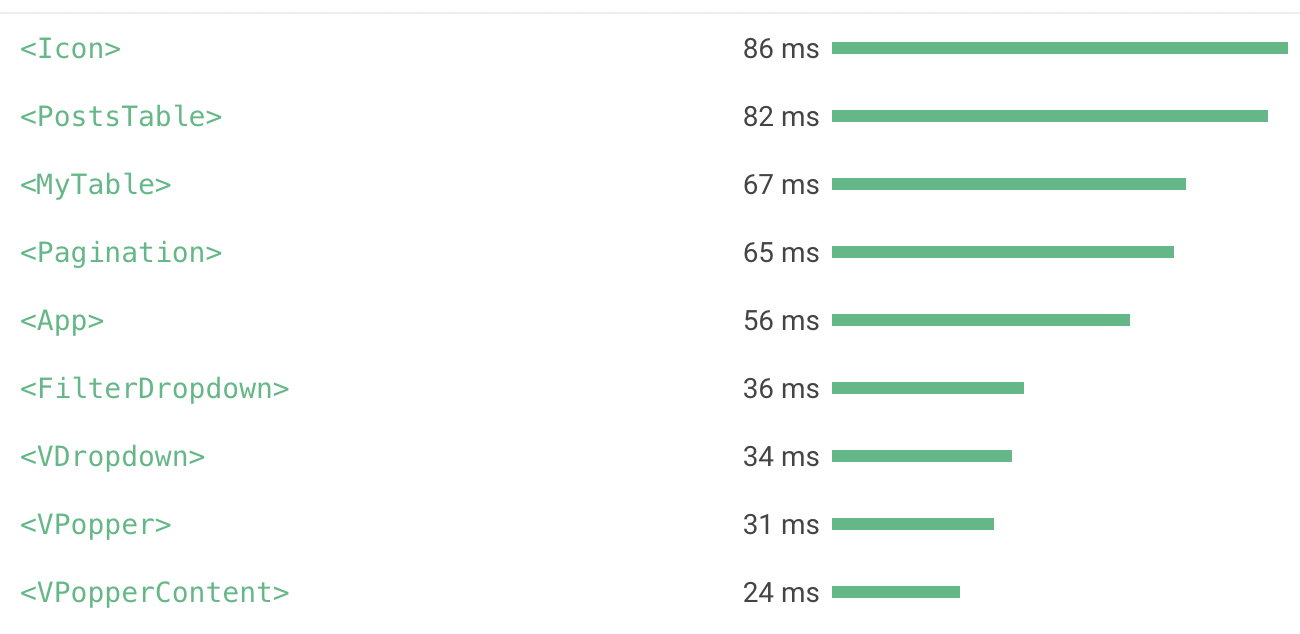
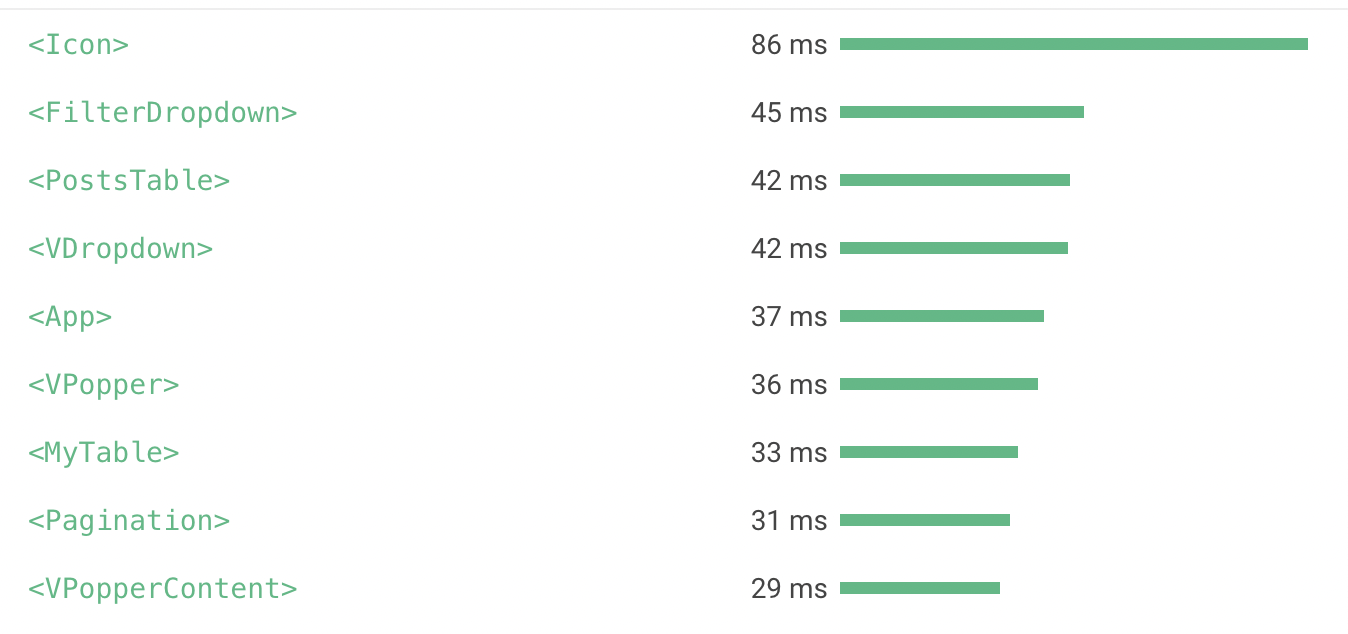
functional components

diff --git a/src/components-func/MyTable/index.vue b/src/components-func/MyTable/index.vue
@@ -1,0 +1,72 @@
+<script lang="jsx">
+import defaultTypes from '../../constants/defaultTypes';
+import HeaderItem from '../HeaderItem';
+import RowColumn from '../RowColumn';
+import Row from '../Row';
+import style from './myTable.module.css';
+
+export default {
+  name: 'MyTable',
+  functional: true,
+  props: {
+    items: defaultTypes.array(),
+    columns: defaultTypes.array(),
+    loading: defaultTypes.boolean(),
+  },
+  render(h, { props, scopedSlots }) {
+    const { loading, items, columns } = props;
+
+    const bodyItems = items.map((row) => {
+      const rowColumns = Object.entries(row).map(([colKey, col], index) => (
+        <RowColumn
+          class={columns[index].class}
+          key={colKey}
+        >
+          {col}
+        </RowColumn>
+      ));
+
+      return (
+        <Row key={row.id}>
+          {...rowColumns}
+        </Row>
+      );
+    });
+
+    const headerItems = columns.map((column) => {
+      return (
+        <HeaderItem data={column}>
+          {scopedSlots.headerItem?.({ column, class: style['header-item'] })}
+        </HeaderItem>
+      );
+    });
+
+
+    const noMoreSlotDefaultComponent = (
+      <div class={style['no-more-message']}>
+        No results :(
+      </div>
+    );
+
+    return (
+      <div>
+        <table class={style.table}>
+          <thead class={style.header}>
+            {...headerItems}
+          </thead>
+
+          <tbody class={style.body}>
+            {...bodyItems}
+          </tbody>
+        </table>
+
+        {!items?.length && !loading &&
+          (scopedSlots['no-more'] ? scopedSlots['no-more']() : noMoreSlotDefaultComponent)
+        }
+
+        {scopedSlots.after?.()}
+      </div>
+    );
+  }
+};
+</script>

diff --git a/src/components-func/Icon/index.vue b/src/components-func/Icon/index.vue
@@ -1,0 +1,40 @@
+<script lang="jsx">
+import defaultTypes from '../../constants/defaultTypes';
+import style from './icon.module.css';
+
+export default {
+  name: 'Icon',
+  functional: true,
+  props: {
+    name: String,
+    size: defaultTypes.number(24),
+    color: String,
+  },
+  render(h, context) {
+    const { props, listeners, data } = context;
+    const { color = 'black', size, name } = props;
+
+    const Icon = name?.length
+      ? require(`../../assets/icons/${name}.svg`)
+      : undefined;
+
+    return (
+      <span class={[style.icon, data.class ]} on={listeners}>
+        <Icon
+          fill={color}
+          width={size}
+          height={size}
+          viewBox="0 0 24 24"
+        />
+      </span>
+    );
+  }
+};
+</script>
+
+<style module>
+.icon {
+  display: flex;
+  align-items: center;
+}
+</style>

diff --git a/src/components-func/PostsTable.vue b/src/components-func/PostsTable.vue
@@ -2,9 +2,9 @@
 import InfiniteLoading from 'vue-infinite-loading';
 import Pagination from './Pagination.vue';
 import FilterDropdown from './FilterDropdown.vue';
-import MyTable from './MyTable.vue';
+import MyTable from './MyTable';
 import MyTableVS from './MyTableVS.vue';
-import Icon from './Icon.vue';
+import Icon from './Icon';
 import { errorHandler } from '../error';
 import api from '../utils/api';
 import isEqual from 'lodash/isEqual';

diff --git a/src/components-func/RowColumn/index.vue b/src/components-func/RowColumn/index.vue
@@ -1,0 +1,23 @@
+<script>
+import style from './rowColumn.module.css';
+
+export default {
+  name: 'RowColumn',
+  functional: true,
+  props: {
+    key: [Number, String],
+  },
+  render(h, { props, data, scopedSlots }) {
+    const { key } = props;
+
+    return (
+      <td
+        key={key}
+        class={[style.column, data.class]}
+      >
+        {scopedSlots.default?.()}
+      </td>
+    );
+  },
+};
+</script>

diff --git a/src/components-func/HeaderItem/index.vue b/src/components-func/HeaderItem/index.vue
@@ -1,0 +1,19 @@
+<script lang="jsx">
+import defaultTypes from '../../constants/defaultTypes';
+
+export default {
+  name: 'HeaderItem',
+  functional: true,
+  props: {
+    data: defaultTypes.object(),
+  },
+  render(h, { props, scopedSlots }) {
+    const { data } = props;
+    return (
+      <th key={data.id} class={data.class}>
+        {scopedSlots.default?.()}
+      </th>
+    );
+  }
+};
+</script>

diff --git a/src/components-func/MyTable/myTable.module.css b/src/components-func/MyTable/myTable.module.css
@@ -1,0 +1,15 @@
+.table {
+  width: 100%;
+  table-layout: fixed;
+  border-collapse: collapse;
+}
+.header-item {
+  background: var(--gray);
+  overflow: hidden;
+}
+.no-more-message {
+  display: flex;
+  text-align: center;
+  justify-content: center;
+  padding: 15px;
+}

diff --git a/src/components-func/Row/index.vue b/src/components-func/Row/index.vue
@@ -1,0 +1,16 @@
+<script>
+export default {
+  name: 'Row',
+  functional: true,
+  props: {
+    key: [Number, String],
+  },
+  render(h, { children, props }) {
+    return (
+      <tr key={props.key}>
+        {...children}
+      </tr>
+    );
+  },
+};
+</script>

diff --git a/src/components-func/FilterDropdown.vue b/src/components-func/FilterDropdown.vue
@@ -1,5 +1,5 @@
 <script lang="jsx">
-import Icon from './Icon.vue';
+import Icon from './Icon';
 import defaultTypes from '../constants/defaultTypes';
 import color from '../constants/colors';
 

diff --git a/src/components-func/RowColumn/rowColumn.module.css b/src/components-func/RowColumn/rowColumn.module.css
@@ -1,0 +1,8 @@
+.column {
+  text-align: left;
+  border-bottom: 1px solid var(--gray);
+  padding: 1rem 1rem;
+  overflow: hidden;
+  max-height: 100px;
+  height: 100px;
+}

diff --git a/src/components-func/Icon/icon.module.css b/src/components-func/Icon/icon.module.css
@@ -1,0 +1,4 @@
+.icon {
+  display: flex;
+  align-items: center;
+}
